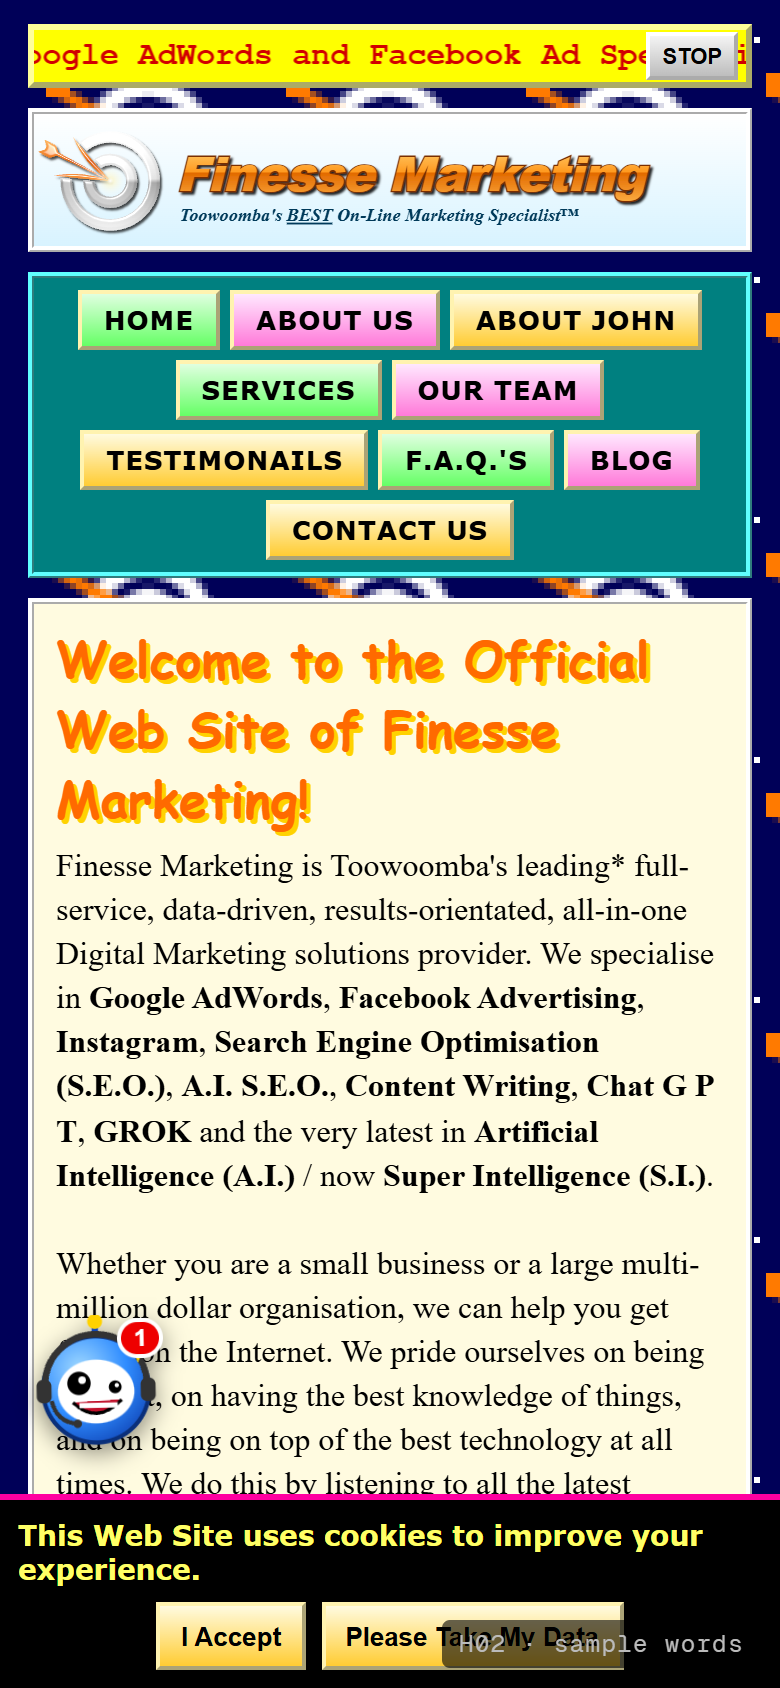
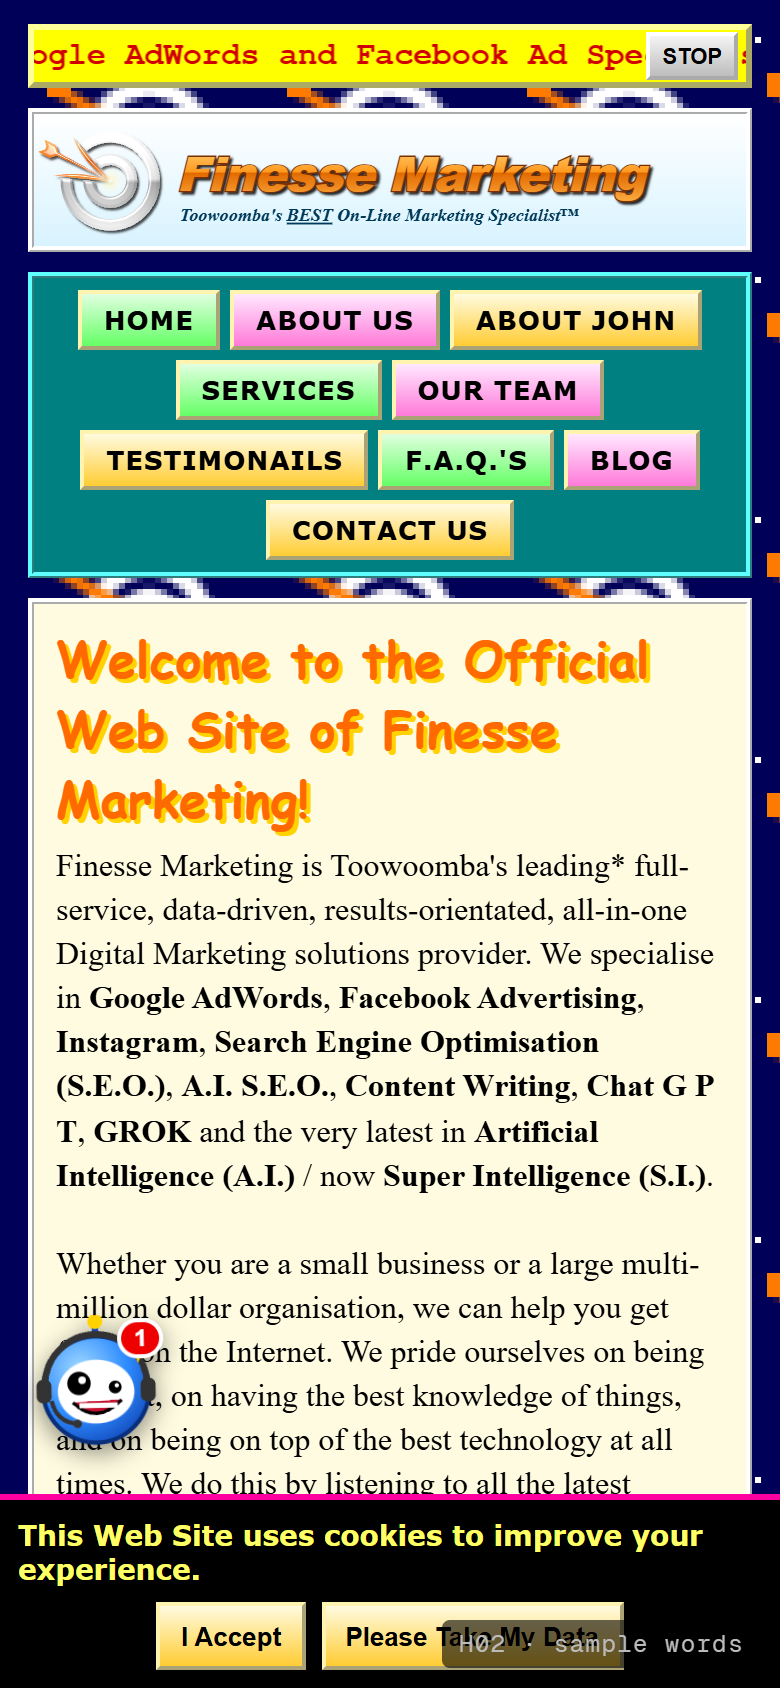
Hero ideas preview: Ninety-six round 2w

Changed region(s): [[0.0308, 0.0, 0.8308, 0.0616]]

diff --git a/look/website-hero/ninety-six.html b/look/website-hero/ninety-six.html
@@ -363,9 +363,9 @@
       <div class="box testi"><h3>Testimonials</h3>
         <p>&#8220;He said we would be Number One on Google. We searched our own name and there we were.&#8221;<br><b>~ Lower Range Pony &amp; Hobby Horse Club</b></p>
         <p>&#8220;Our raffle has never been more data-driven.&#8221;<br><b>~ East Side Bowls &amp; Raffle Club</b></p>
-        <p>&#8220;We asked for a logo, a website and a marketing strategy. We received a Funnel. We are still not sure what it does, but it is ours.&#8221;<br><b>~ Rangeville Ladies Croquet Auxiliary</b></p>
+        <p>&#8220;We asked for a logo, a website and a marketing strategy. We received a Funnel. We are still not sure what it does, but it is ours for just $140 a month.&#8221;<br><b>~ Rangeville Ladies Croquet Auxiliary</b></p>
         <p>&#8220;He explained Google AdWords to me for two hours. I still do not know what it is, but apparently I am Number One at certain times on certain devices.&#8221;<br><b>~ Dr. Ahmed Salamat</b></p></div>
-      <div class="box"><h3>Our Values</h3><p class="mission" style="font-style:normal;font-weight:bold">Integrity. Excellence. Integrity (it is that important). Synergy. Values.<br><span style="font-weight:normal;font-size:14px">We value our Values. It's as simple as that.<br>I'm done explaining myself to all the haters.</span></p></div>
+      <div class="box"><h3>Our Values</h3><p class="mission" style="font-style:normal;font-weight:bold">Integrity. excellence. Integrity (it is that important). Synergy. Values.<br><span style="font-weight:normal;font-size:14px">We value our Values. Its as simple as that.<br>Im done explaning myself to all the haters .</span></p></div>
       <div class="box rant"><h3>A Message From John: Why We Will NEVER Use A.I. Slop</h3>
         <p class="gpt">Certainly! Here is a heartfelt, authentic rant about A.I. slop for your business website:</p>
         <p><b>Why I Refuse to Use A.I. Slop &#8212; And Why You Should Too</b></p>
